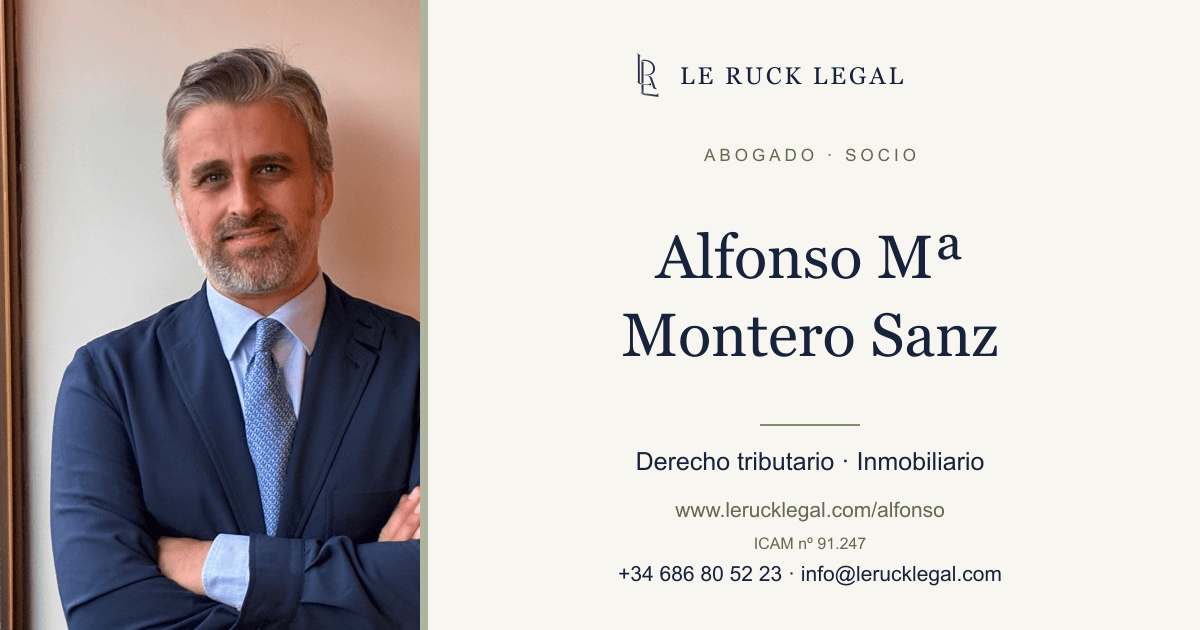
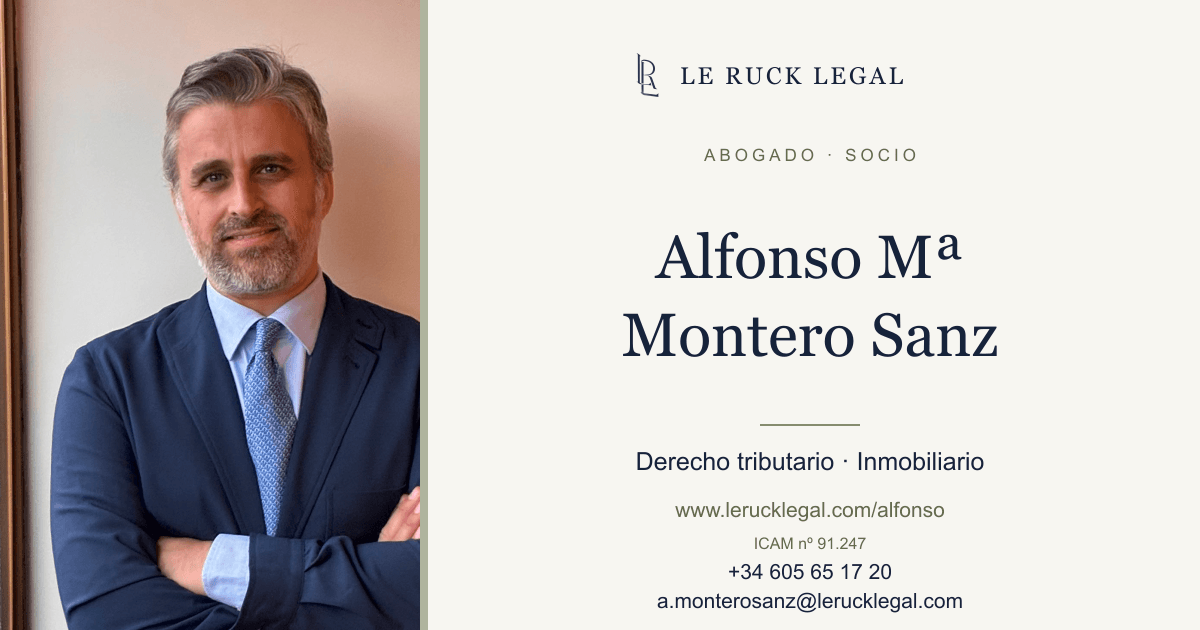
fix: use partners direct contacts and align practice grid

Changed region(s): [[0.5242, 0.8746, 0.8325, 0.9651]]

diff --git a/src/styles/global.css b/src/styles/global.css
@@ -77,7 +77,9 @@ h1, h2, h3, h4, .font-serif {
 .section-heading { padding-block: 3.5rem 2.5rem; text-align: center; }
 .section-heading h2, .firm-section h2, .faq-section h2, .contact-strip h2 { font-size: clamp(1.8rem, 2.7vw, 2.6rem); font-weight: 400; line-height: 1.25; }
 .section-heading p { margin-top: .8rem; color: var(--color-sage-600); }
-.practice-grid { display: grid; grid-template-columns: repeat(3, minmax(0, 1fr)); gap: 4px; }
+.practice-grid { display: grid; grid-template-columns: repeat(6, minmax(0, 1fr)); gap: 4px; }
+.practice-grid > .practice-tile { grid-column: span 2; }
+.practice-grid > .practice-tile:nth-last-child(-n+2) { grid-column: span 3; }
 .practice-tile { position: relative; min-height: 355px; display: flex; align-items: flex-end; isolation: isolate; background: var(--color-navy-950); color: white; }
 .practice-tile > img { position: absolute; inset: 0; width: 100%; height: 100%; object-fit: cover; filter: grayscale(1); z-index: -2; }
 .practice-tile::after { content: ''; position: absolute; inset: 0; background: linear-gradient(0deg, rgba(15,27,45,.97) 10%, rgba(15,27,45,.25)); z-index: -1; }
@@ -137,6 +139,8 @@ h1, h2, h3, h4, .font-serif {
 .contact-status[data-state="success"] { color: var(--color-sage-600); }
 @media (max-width: 1023px) {
   .practice-grid { grid-template-columns: repeat(2, minmax(0, 1fr)); }
+  .practice-grid > .practice-tile:nth-child(n) { grid-column: span 1; }
+  .practice-grid > .practice-tile:last-child { grid-column: 1 / -1; }
   .firm-section { gap: 2rem; }
   .hero-copy { padding: 2rem; }
   .news-grid { grid-template-columns: repeat(2, minmax(0, 1fr)); }
@@ -152,6 +156,7 @@ h1, h2, h3, h4, .font-serif {
   .contact-bar > div { justify-content: space-between; gap: .5rem; font-size: .65rem; }
   .practice-grid, .firm-section, .news-grid, .faq-section, .guide-intro { grid-template-columns: 1fr; }
   .practice-grid { gap: 0; margin-inline: 1.25rem; }
+  .practice-grid > .practice-tile:nth-child(n) { grid-column: auto; }
   .practice-tile { display: grid; grid-template-columns: minmax(0, 1fr) 88px; gap: 1rem; align-items: start; min-height: 0; padding-block: 1.25rem; background: transparent; color: var(--color-navy-900); border-bottom: 1px solid var(--color-sage-200); }
   .practice-tile:last-child { border-bottom: 0; }
   .practice-tile > img { position: static; grid-column: 2; grid-row: 1; width: 88px; height: 108px; z-index: auto; }

diff --git a/src/data/site.ts b/src/data/site.ts
@@ -144,6 +144,8 @@ export type Lawyer = {
   languages?: string;
   areas: string[];
   email?: string;
+  phone?: string;
+  phoneHref?: string;
 };
 
 // Socios en orden alfabético por nombre.
@@ -198,7 +200,9 @@ export const team: Lawyer[] = [
       "recursos-administrativos",
       "contencioso-administrativo"
     ],
-    "email": "info@lerucklegal.com"
+    "email": "a.monterosanz@lerucklegal.com",
+    "phone": "+34 605 65 17 20",
+    "phoneHref": "+34605651720"
   },
   {
     "slug": "belen-de-santaolalla",
@@ -278,7 +282,9 @@ export const team: Lawyer[] = [
       "inspecciones-fiscales",
       "recursos-administrativos"
     ],
-    "email": "info@lerucklegal.com"
+    "email": "j.blancorial@lerucklegal.com",
+    "phone": "+34 663 21 47 29",
+    "phoneHref": "+34663214729"
   }
 ];
 

diff --git a/src/lib/vcard.ts b/src/lib/vcard.ts
@@ -27,7 +27,7 @@ export function createVCard(person: Lawyer): string {
     `FN:${escape(person.name)}`,
     `ORG:${escape(site.name)}`,
     `TITLE:${profession} - ${escape(person.role)}`,
-    `TEL;TYPE=WORK,VOICE:${site.phoneHref}`,
+    `TEL;TYPE=WORK,VOICE:${person.phoneHref ?? site.phoneHref}`,
     `EMAIL;TYPE=WORK:${escape(person.email ?? site.email)}`,
     `URL:${site.url}/${person.card.slug}`,
     'END:VCARD',

diff --git a/README.md b/README.md
@@ -81,7 +81,9 @@ fallos, límite de frecuencia y conservación del mensaje sin enviar correo real
 Las tarjetas digitales de los socios están en `/alfonso`, `/belen` y `/juan`.
 Cada tarjeta incluye fotografía, colegiación, botones de contacto, descarga de
 vCard (`/<nombre>.vcf`) e imagen para compartir (`/tarjeta-<nombre>.png`).
-Usan el contacto general del despacho y enlazan al perfil individual.
+Alfonso y Juan José usan su móvil y email personales en perfiles, tarjetas,
+vCards e imágenes. Belén conserva el contacto general del despacho. Los enlaces
+de WhatsApp usan el móvil de cada socio cuando está disponible.
 
 El equipo y las tarjetas comparten datos en `src/data/site.ts`. Tras cambiar
 los datos o retratos, regenerar las tres imágenes con
